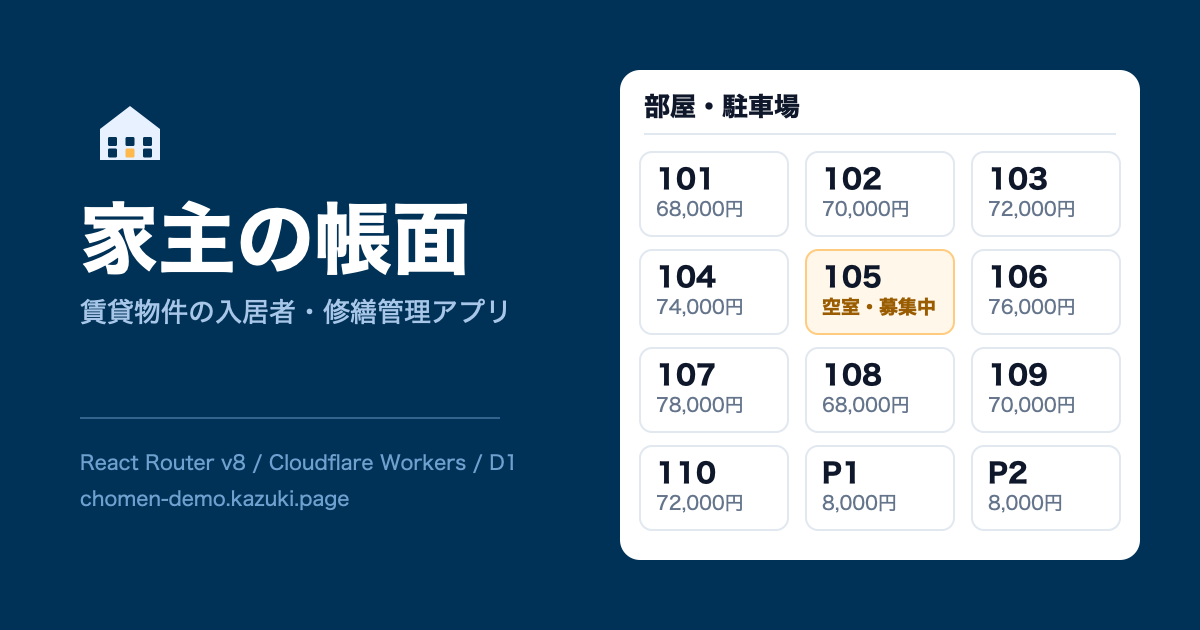
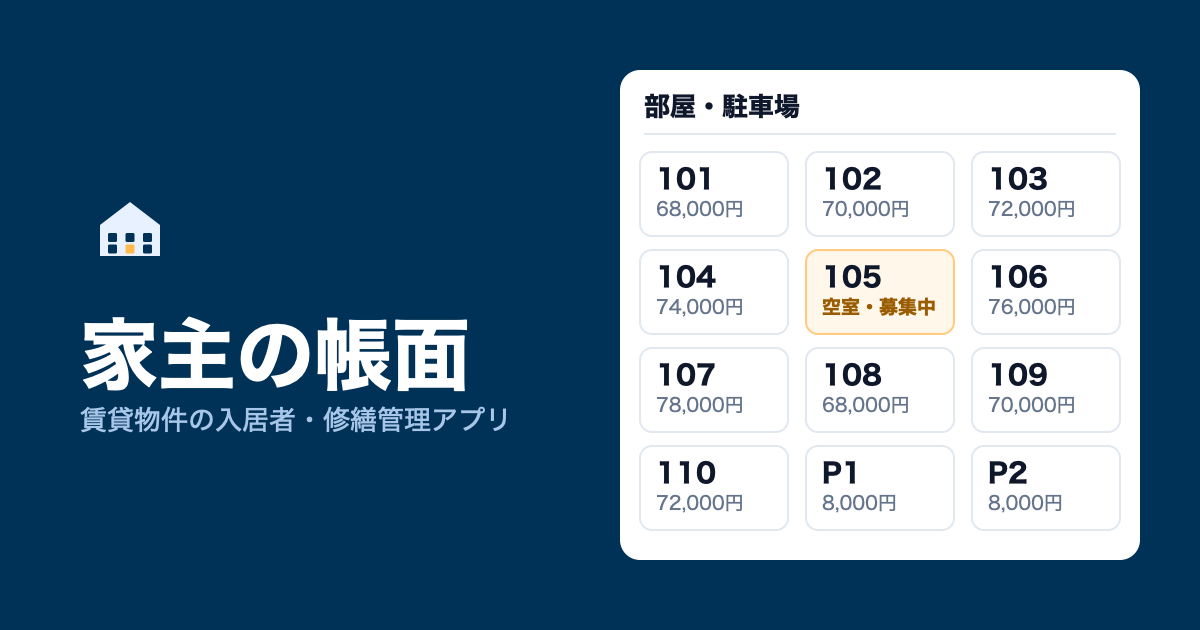
feat: OGP をデモと本番で出し分ける
読む相手が違うため、同じカードを配るのはやめる。

  デモ … 見に来てもらうためのもの。技術スタックとURLを載せる
  本番 … 家族がURLを送り合ったときに出るもの。宣伝文句は邪魔になる

- public/og-image.png（本番用・名前だけ）と og-image-demo.png を用意
- SVG の重複を避けるため scripts/make-og.mjs で両方を組み立てる。
  コミット済みだった scripts/og-image.svg は削除
- URL はリクエストのオリジンから組み立てる。本番のドメインをコードに
  書かずに済み、環境が増えても直さなくてよい
- Layout はルートの loader が失敗したときも描画されるため、
  データが無い場合の既定値を置いている

あわせて本番にも配色・アイコン・ファビコンを反映（これまでデモだけだった）。

diff --git a/app/root.tsx b/app/root.tsx
@@ -7,6 +7,7 @@ import {
   Outlet,
   Scripts,
   ScrollRestoration,
+  useRouteLoaderData,
 } from "react-router";
 
 import { getAppSession } from "~/lib/auth.server";
@@ -43,12 +44,37 @@ if ("serviceWorker" in navigator) {
 }
 `;
 
-const OG_DESCRIPTION =
-  "空室と現在の家賃は保存せず、契約と改定履歴から導き出す。入居・更新・退居の手順は" +
-  "チェックリストとしてアプリに埋め込み、運用マニュアルを不要にした。" +
-  "React Router v8 + Cloudflare Workers / D1。架空データのデモを公開中。";
+/**
+ * SNS やメッセンジャーに貼られたときのカード。
+ *
+ * デモと本番で中身を変える。読む相手が違うため。
+ *   デモ … 見に来てもらうためのもの。何を解いたアプリかを説明する
+ *   本番 … 家族がURLを送り合ったときに出るもの。宣伝文句は邪魔になる
+ */
+const OG = {
+  demo: {
+    image: "/og-image-demo.png",
+    description:
+      "空室と現在の家賃は保存せず、契約と改定履歴から導き出す。入居・更新・退居の手順は" +
+      "チェックリストとしてアプリに埋め込み、運用マニュアルを不要にした。" +
+      "React Router v8 + Cloudflare Workers / D1。架空データのデモを公開中。",
+  },
+  app: {
+    image: "/og-image.png",
+    description: "賃貸物件の入居者・修繕管理アプリ。部屋・契約・手続き・修繕をまとめて見る。",
+  },
+} as const;
 
 export function Layout({ children }: { children: React.ReactNode }) {
+  /*
+   * URL は環境ごとに違うため、リクエストのオリジンから組み立てる。
+   * Layout はルートの loader が失敗したときにも描画されるので、
+   * データが無い場合に備えて既定値を置いている。
+   */
+  const data = useRouteLoaderData<typeof loader>("root");
+  const origin = data?.origin ?? DEMO_ORIGIN;
+  const og = data?.isDemo ?? true ? OG.demo : OG.app;
+
   return (
     <html lang="ja">
       <head>
@@ -70,13 +96,13 @@ export function Layout({ children }: { children: React.ReactNode }) {
         <meta property="og:type" content="website" />
         <meta property="og:site_name" content="家主の帳面" />
         <meta property="og:title" content="家主の帳面 — 賃貸物件の入居者・修繕管理アプリ" />
-        <meta property="og:description" content={OG_DESCRIPTION} />
-        <meta property="og:url" content={DEMO_ORIGIN} />
-        <meta property="og:image" content={`${DEMO_ORIGIN}/og-image.png`} />
+        <meta property="og:description" content={og.description} />
+        <meta property="og:url" content={origin} />
+        <meta property="og:image" content={`${origin}${og.image}`} />
         <meta property="og:image:width" content="1200" />
         <meta property="og:image:height" content="630" />
         <meta name="twitter:card" content="summary_large_image" />
-        <meta name="description" content={OG_DESCRIPTION} />
+        <meta name="description" content={og.description} />
         <Meta />
         <Links />
       </head>
@@ -95,6 +121,8 @@ export async function loader({ request }: Route.LoaderArgs) {
   return {
     session: await getAppSession(request),
     isDemo: env.DEMO_MODE === "true",
+    // OGP の絶対URLを組み立てるのに使う。環境ごとにドメインが違う
+    origin: new URL(request.url).origin,
   };
 }
 
